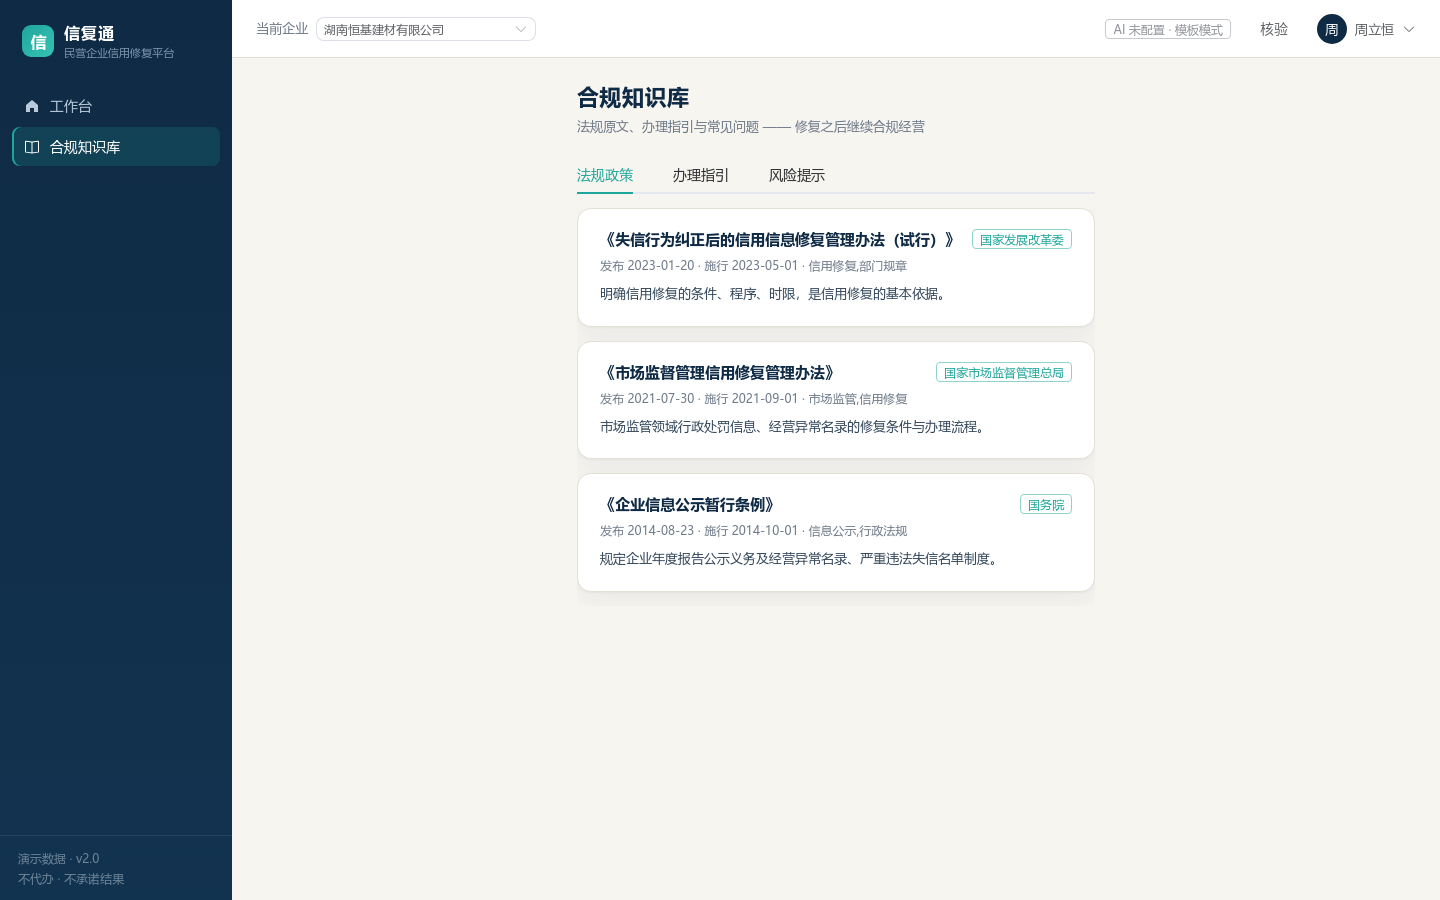
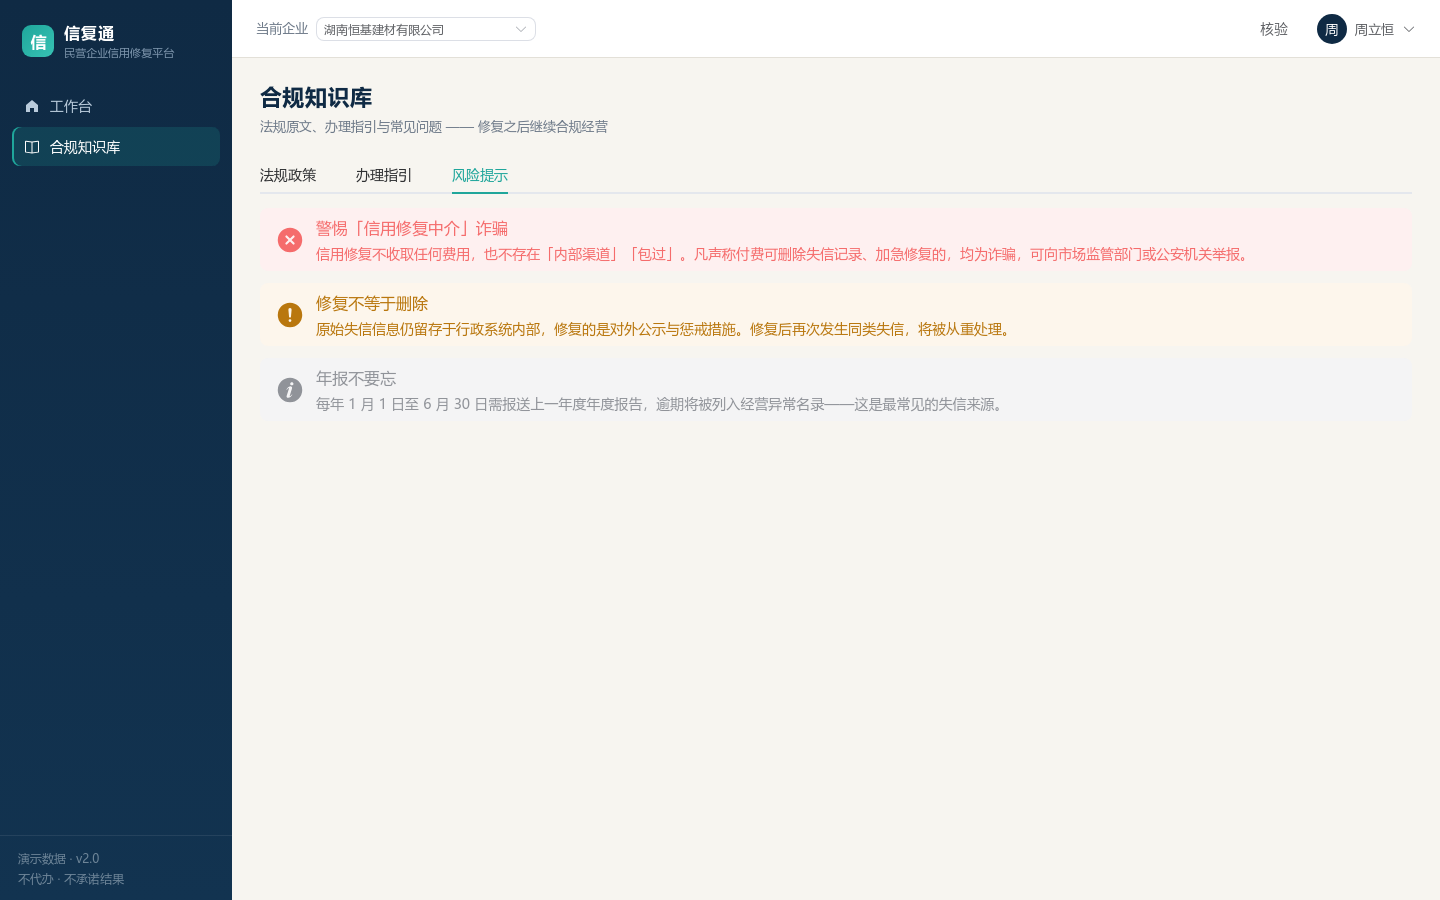
修复页面宽度随内容变化导致 Tab 位置漂移；新增需求文档 v2.0

diff --git a/web/src/styles.css b/web/src/styles.css
@@ -41,7 +41,7 @@ body {
 a { color: var(--teal-dark); text-decoration: none; }
 
 /* ---------- 通用 ---------- */
-.page { padding: 24px 28px 40px; max-width: 1280px; margin: 0 auto; }
+.page { padding: 24px 28px 40px; width: 100%; max-width: 1280px; margin: 0 auto; box-sizing: border-box; }
 
 .page-head { display: flex; align-items: flex-end; justify-content: space-between; gap: 16px; margin-bottom: 20px; }
 .page-head h1 { font-size: 22px; margin: 0 0 6px; letter-spacing: .5px; }

diff --git a/web/src/views/CaseDetail.vue b/web/src/views/CaseDetail.vue
@@ -409,4 +409,5 @@ onMounted(async () => {
 <style scoped>
 .case-tabs :deep(.el-tabs__header) { margin-bottom: 18px; }
 .case-tabs :deep(.el-tabs__item) { font-size: 14px; }
+.case-tabs :deep(.el-tabs__content) { min-height: 430px; }
 </style>

diff --git a/docs/需求文档.md b/docs/需求文档.md
@@ -1,0 +1,284 @@
+# 信复通 · 民营企业信用修复平台 需求文档 v2.0
+
+| 项 | 内容 |
+| --- | --- |
+| 文档版本 | v2.0（与代码实现对齐） |
+| 项目名称 | 民营企业信用修复的困境与优化：企业视角下的政策协同创新 |
+| 平台名称 | 信复通（Credit Restoration Platform） |
+| 载体 | Web 应用（企业端 / 机构端 / 运营端 / 公开核验端） |
+| 技术形态 | Vue 3 + Element Plus / Node.js 分层后端 / MySQL 24 表 |
+| 代码位置 | `/home/simon/项目/信复通/app` |
+| 状态 | M1 已交付（P0 全链路可运行），M2–M4 待建 |
+
+---
+
+## 1. 产品定位
+
+面向**民营企业**的信用修复自助平台：把「我该不该修、能不能修、写什么材料、交到哪、交完有没有生效」这条原本只能靠中介或熟人打听的链路，变成企业自己可以走完的流程。
+
+### 1.1 产品边界（写进章程，不可越界）
+
+| 编号 | 边界 | 说明 |
+| --- | --- | --- |
+| B-1 | 不代办 | 不代替企业提交申请，只准备材料与指引 |
+| B-2 | 不承诺结果 | 不承诺「包过」「必删」，只输出条件核验与材料质量 |
+| B-3 | 不替代行政机关 | 平台出具的是**状态凭证**，不是行政决定书 |
+| B-4 | 不做内部渠道 | 明确反对「有关系能加急」的中介话术 |
+| B-5 | 数据最小化 | 只收集办理必需字段，不留身份证号、银行流水 |
+
+### 1.2 要解决的问题
+
+1. **不知道能不能修**：失信类型、公示期、最短修复期限分散在十余部法规里。
+2. **不知道写什么**：申请书、承诺书、整改说明格式各地不一，企业反复退件。
+3. **不知道进度**：材料交上去后无下文，多部门流转无感知。
+4. **修了没生效**：官方已修复，第三方平台（企查查、天眼查）仍显示失信。
+5. **举证成本高**：向银行、招标方证明「已修复」只能拿截图，无法核验真伪。
+6. **易被中介骗**：市场存在收费「删除失信记录」的诈骗。
+
+---
+
+## 2. 角色与权限
+
+| 角色 | 账号示例 | 可见范围 | 核心动作 |
+| --- | --- | --- | --- |
+| 企业用户（owner） | 13907320001 | 本企业全部案件 | 诊断、生成材料、提交、监测、异议、领凭证 |
+| 企业成员（member） | 由企业邀请 | 同上（只读+材料） | 查看、补材料 |
+| 机构用户（org） | 13907320002 | 名下托管企业 | 批量查看健康度、催办 |
+| 平台运营（admin） | 18600000000 | 全量 | 规则参数、机构、审计、用量 |
+| 匿名访客 | — | `/verify/:code` | 扫码核验凭证 |
+
+权限实现：`users.role` + `enterprise_members` / `org_members` 关联表，路由中间件 `requireEnterprise(caseId)` 校验归属，越权返回 403 并写审计日志。
+
+---
+
+## 3. 主流程
+
+```
+① 注册/登录 → ② 录入企业信息 → ③ 智能诊断（等级·可申请日·材料清单·法律依据）
+   → ④ 材料工坊（模板生成 → 编辑 → AI 润色 → 跨文书一致性校验 → 导出 PDF/Word）
+   → ⑤ 办理进度（提交、受理、审核、决定，任务拆解与提醒）
+   → ⑥ 同步监测（多源渠道巡检，识别"官方已修复但第三方未更新"）
+   → ⑦ 异议中心（一键生成法律异议函，可下载寄送）
+   → ⑧ 数字凭证（哈希链存证 + 签名 + 二维码） → 银行/招标方扫码核验
+```
+
+分支：
+- ③ 判定「未届满」→ 输出倒计时与到期提醒，不允许生成正式申请书。
+- ④ 校验不通过 → 阻断导出，标红具体字段。
+- ⑥ 无差异 → 直接进入凭证签发。
+- ⑦ 异议后 3 个工作日未更新 → 升级为「监管投诉建议」。
+
+---
+
+## 4. 功能需求
+
+> 状态说明：✅ 已实现并验证 ｜ 🟡 已实现未做真实数据 ｜ ⬜ 未实现
+
+| 编号 | 功能 | 说明 | 状态 | 对应接口 |
+| --- | --- | --- | --- | --- |
+| F-01 | 账号与登录 | 手机号 + 口令，scrypt 加盐，HttpOnly Cookie 会话，30 天 | ✅ | `/api/auth/*` |
+| F-02 | 企业工作台 | 健康度评分、在办事项、同步异常数、待办数、近期动态 | ✅ | `/api/enterprises/:id/overview` |
+| F-03 | 智能诊断 | 判定失信等级、可申请日、三项法定条件核验、材料清单、法律依据 | ✅ | `/api/cases/:id/diagnose` |
+| F-04 | 材料工坊 | 5 份文书模板生成，锁定事实不可改，支持编辑与版本 | ✅ | `/api/cases/:id/docs` |
+| F-05 | AI 润色 | 服务端代理 DeepSeek，锁定事实校验，失败降级模板 | ✅ | `/api/cases/:id/docs/:key/polish` |
+| F-06 | 跨文书一致性校验 | 同一事实在 5 份文书中必须一致，不一致阻断导出 | 🟡 | `/api/cases/:id/doc-check` |
+| F-07 | PDF 导出 | reportlab 生成 A4 正式文书，含页脚、编号、页码、红章 | ✅ | `/api/pdf/doc` |
+| F-08 | 办理进度 | 时间线 + 任务拆解 + 状态流转（6 任务 / 5 事件） | ✅ | `/api/tasks/:id/status` |
+| F-09 | 同步监测 | 4 渠道巡检，产出「未同步 / 滞后 / 冲突」差异 | 🟡（模拟渠道） | `/api/cases/:id/rescan` |
+| F-10 | 异议中心 | 生成法律异议函（按渠道/按机关两种口吻），记录发送 | ✅ | `/api/cases/:id/objection` |
+| F-11 | 数字凭证 | SHA-256 摘要 + HMAC 签名 + 前序摘要链 + 二维码 | ✅ | `/api/cases/:id/certificates` |
+| F-12 | 扫码核验 | 公开页，四态：有效 / 已撤销 / 被篡改 / 已过期 | ✅ | `/api/verify/:code` |
+| F-13 | 合规知识库 | 法规原文、办理指引、风险提示 | ✅ | `/api/kb` |
+| F-14 | 运营后台 | 规则参数在线调整、机构管理、审计日志、用量统计 | ✅ | `/api/admin/*` |
+| F-15 | 机构批量管理 | 园区/代账批量查看托管企业 | 🟡（列表已通，批量动作未做） | `/api/enterprises` |
+| F-16 | 防再失信提醒 | 政策变动与合规风险推送 | ⬜ | `alerts` 表已建 |
+| F-17 | 融资对接 | 凭证对接银行/招标方 | ⬜ | 凭证已可支撑，入口未做 |
+| F-18 | 订阅与计量 | 套餐、配额、按次计费 | 🟡（用量已记，套餐未做） | `usage_logs` |
+
+---
+
+## 5. 业务规则
+
+### 5.1 失信分级与最短公示期
+
+| 等级 | 情形 | 最短公示期 |
+| --- | --- | --- |
+| 轻微 | 一般行政处罚、经营异常（已补报） | 3 个月 |
+| 一般 | 较重行政处罚 | 6 个月 |
+| 严重 | 严重违法失信名单 | 12 个月 |
+| 特别严重 | 特定领域（食品药品、安全生产等） | 36 个月 |
+
+> 上述期限为**演示默认值**，存于 `rule_params` 表，运营后台可改；正式使用前须由法律专业人员依据现行法规逐条校准。
+
+### 5.2 可申请修复日
+
+```
+经营异常名录类（补报年报、更正公示信息）：
+    applyFrom = removed_date          // 移出即视为义务履行完毕
+行政处罚类：
+    applyFrom = listed_date + minMonths(level)
+```
+
+### 5.3 三项法定条件核验
+
+| 条件 | 判定依据 |
+| --- | --- |
+| 已履行相关义务 | `removed_date` 非空 或 处罚已缴款 |
+| 整改措施已落实 | 已生成《整改情况说明》与《守信承诺书》 |
+| 无新增同类失信 | 近 12 个月同类型案件数为 0 |
+
+三项全满足 → 可申请；任一不满足 → 输出阻塞原因与倒计时。
+
+### 5.4 材料矩阵
+
+| 等级 | 材料 |
+| --- | --- |
+| 轻微 / 一般 | 申请书、承诺书、整改说明、授权委托书、材料目录 |
+| 严重 | 上述 + 整改计划书 + 第三方证明 |
+
+### 5.5 文书槽位三分类
+
+| 类型 | 含义 | 谁可改 |
+| --- | --- | --- |
+| LOCK | 企业名称、信用代码、决定文号、日期等事实 | 系统锁定，AI 与用户都不可改 |
+| GEN | 说明性段落（整改情况、承诺内容） | AI 可改写，用户可编辑 |
+| DER | 派生值（份数、日期落款） | 系统计算 |
+
+AI 输出必须**原样包含全部 LOCK 槽位文本**，否则判定失败、回退模板——这是防止「AI 编造文号」的硬闸门。
+
+### 5.6 凭证算法
+
+```
+digest    = SHA256(code|name|caseId|docNo|event|authority|issuedDate)
+prevHash  = 上一条凭证的 digest（首条为 64 个 0）
+signature = HMAC-SHA256(digest + prevHash, XFT_SIGN_KEY)
+```
+
+核验时按当前库内数据重算 digest 并比对：一致 → 有效；不一致 → 被篡改；`revoked_at` 非空 → 已撤销；超过 `valid_until` → 已过期。
+
+### 5.7 案件状态机
+
+```
+draft → diagnosed → materials_ready → submitted → reviewing → repaired
+                                                       ↘ rejected → (补正) → materials_ready
+```
+
+---
+
+## 6. 数据模型（24 表）
+
+| 分组 | 表 | 说明 |
+| --- | --- | --- |
+| 身份 | `users` `sessions` `orgs` `org_members` `enterprise_members` | 账号、会话、机构与成员关系 |
+| 主体 | `enterprises` `cases` `case_channels` `channel_snapshots` | 企业、案件、渠道、抓取快照 |
+| 规则 | `rule_params` `doc_templates` `doc_checks` `diagnoses` `checks_runs` | 参数、模板、校验、诊断、巡检 |
+| 业务 | `case_docs` `tasks` `timeline_events` `objections` | 文书、任务、时间线、异议 |
+| 存证 | `certificates` `cert_scans` | 凭证、扫码记录 |
+| 内容 | `policies` `kb_articles` | 法规、知识库 |
+| 运营 | `alerts` `subscriptions` `usage_logs` `audit_logs` | 提醒、订阅、用量、审计 |
+
+引擎 InnoDB，字符集 utf8mb4；关键唯一键 `uk_case_channel(case_id,channel_code)`、`uk_case_doc(case_id,doc_key)`、`uk_doc_ver(doc_key,version)`。
+
+---
+
+## 7. 接口清单（35 个）
+
+| 方法 | 路径 | 鉴权 | 说明 |
+| --- | --- | --- | --- |
+| POST | `/api/auth/login` | 否 | 手机号 + 口令登录 |
+| POST | `/api/auth/register` | 否 | 注册企业账号 |
+| POST | `/api/auth/logout` | 是 | 退出 |
+| GET | `/api/auth/me` | 否 | 当前用户 + 企业列表 |
+| GET | `/api/enterprises` | 是 | 可见企业清单 |
+| GET | `/api/enterprises/:id/overview` | 是 | 工作台聚合数据 |
+| GET | `/api/cases/:id` | 是 | 案件详情（规则 + 文书 + 渠道） |
+| POST | `/api/cases/:id/diagnose` | 是 | 重新诊断 |
+| GET | `/api/cases/:id/docs` | 是 | 文书列表 |
+| POST | `/api/cases/:id/docs/:key` | 是 | 保存文书 |
+| POST | `/api/cases/:id/docs/:key/polish` | 是 | AI 润色 |
+| POST | `/api/cases/:id/docs/:key/reset` | 是 | 恢复模板 |
+| POST | `/api/cases/:id/doc-check` | 是 | 跨文书一致性校验 |
+| GET | `/api/cases/:id/channels` | 是 | 渠道同步状态 |
+| POST | `/api/cases/:id/rescan` | 是 | 触发巡检 |
+| GET | `/api/cases/:id/objection/preview` | 是 | 异议函预览 |
+| POST | `/api/cases/:id/objection` | 是 | 生成/发送异议函 |
+| GET | `/api/cases/:id/certificates` | 是 | 凭证列表 |
+| POST | `/api/cases/:id/certificates` | 是 | 签发凭证 |
+| POST | `/api/certificates/:code/revoke` | 是 | 撤销凭证 |
+| POST | `/api/tasks/:id/status` | 是 | 更新任务状态 |
+| GET | `/api/verify/:code` | 否 | 公开核验 |
+| GET | `/api/pdf/doc` | 是 | 文书 PDF |
+| GET | `/api/pdf/cert` | 是 | 凭证 PDF |
+| GET | `/api/kb` | 是 | 知识库 |
+| GET | `/api/ai/status` | 是 | AI 可用性 |
+| GET | `/api/admin/stats` | 运营 | 用量统计 |
+| GET | `/api/admin/rules` | 运营 | 规则参数 |
+| PUT | `/api/admin/rules/:key` | 运营 | 修改参数 |
+| GET | `/api/admin/orgs` | 运营 | 机构列表 |
+| GET | `/api/admin/audit` | 运营 | 审计日志 |
+| GET | `/api/health` | 否 | 健康检查 |
+
+---
+
+## 8. 前端结构
+
+| 路由 | 页面 | 说明 |
+| --- | --- | --- |
+| `/login` | Login.vue | 品牌页 + 登录/注册 |
+| `/app/dashboard` | Dashboard.vue | 工作台 |
+| `/app/case/:id` | CaseDetail.vue | 五 Tab：诊断/材料/进度/同步/凭证 |
+| `/app/knowledge` | Knowledge.vue | 三 Tab：法规/指引/风险 |
+| `/app/admin` | Admin.vue | 三 Tab：规则/机构/审计（仅运营可见） |
+| `/verify` | Verify.vue | 公开核验 |
+
+设计令牌：主色 `#0F2A44`、强调 `#1FA69B`、金色 `#C9A227`、纸色 `#F7F5F0`。
+
+---
+
+## 9. 非功能需求
+
+| 项 | 要求 | 当前 |
+| --- | --- | --- |
+| 响应时间 | 常规接口 < 300ms，AI 润色 < 8s | 实测 20–80ms / 2.0s |
+| 并发 | 演示 50 并发，云上 2C2G 可支撑 | 未压测 |
+| 安全 | 口令加盐、会话 HttpOnly、越权校验、审计留痕 | ✅ |
+| 隐私 | 不留身份证号、银行流水；日志脱敏 | ✅ |
+| 可用性 | 单据类操作幂等（重复签发返回同一凭证） | ✅ |
+| 可维护 | 法定参数进表不进代码 | ✅ |
+
+---
+
+## 10. 部署架构
+
+```
+浏览器 ──HTTPS──> Nginx ──> Node(8790) ──> MySQL(3306)
+                    └─ 静态资源 web/dist
+```
+
+- 单机即可：2 核 2G、Ubuntu 22.04、systemd 托管。
+- 可选 Nginx 反向代理 + 证书；无域名时直连 `http://IP:8790`。
+- 备份：`mysqldump` 每日 + 凭证链快照（离线存证）。
+
+---
+
+## 11. 里程碑
+
+| 阶段 | 内容 | 状态 |
+| --- | --- | --- |
+| M0 | 需求与规则定稿 | ✅ |
+| M1 | P0 全链路（诊断→材料→进度→监测→异议→凭证→核验） | ✅ 已交付 |
+| M2 | 真实渠道采集、订阅计量、运营看板 | ⬜ |
+| M3 | 机构端批量、融资对接、防再失信提醒 | ⬜ |
+| M4 | 多租户隔离、等保备案、小程序 | ⬜ |
+
+---
+
+## 12. 合规与风险
+
+| 风险 | 应对 |
+| --- | --- |
+| 被认定为「代办中介」 | 五条边界写进用户协议与首屏提示 |
+| AI 编造文号/日期 | LOCK 槽位强制校验，失败回退模板 |
+| 数据来源合法性 | 仅采集公开发布信息，遵守 robots 与频率限制 |
+| 凭证被质疑效力 | 明确「证明数据一致」，不宣称行政效力 |
+| 法规变动 | 参数表化 + 版本号 + 变更留痕 |
